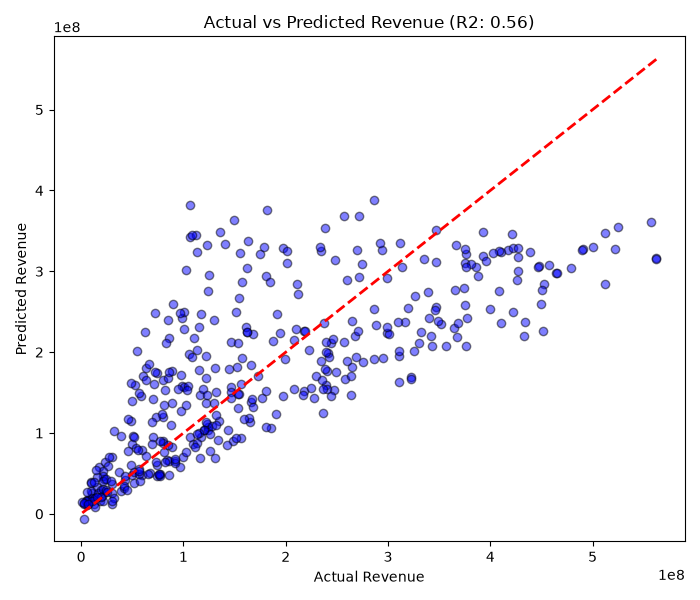
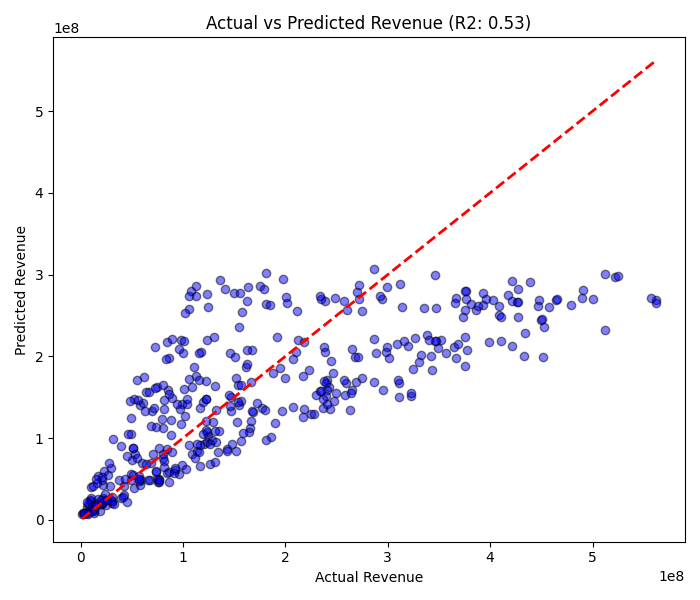
Fix data leakage and target scaling, preserving business logic

diff --git a/src/pipeline.py b/src/pipeline.py
@@ -7,50 +7,10 @@ import seaborn as sns
 from .preprocessor import load_and_clean_data
 from .features import engineer_features, get_top_genres
 from .models.predictive_model import train_and_save_model
+import numpy as np
 
 logger = logging.getLogger(__name__)
 
-def generate_eda_artifacts(df: pd.DataFrame) -> None:
-    """Generate and save EDA plots."""
-    logger.info("Generating EDA artifacts...")
-    os.makedirs("assets", exist_ok=True)
-    
-    df_exploded = df.explode('genre_list')
-    df_exploded = df_exploded[df_exploded['genre_list'].notna()]
-    genre_counts = df_exploded['genre_list'].value_counts().head(10)
-    
-    # 1. Budget vs Revenue
-    plt.figure(figsize=(10, 6))
-    sns.scatterplot(data=df, x='budget', y='revenue', hue='success', alpha=0.6)
-    plt.title('Budget vs Revenue')
-    plt.tight_layout()
-    plt.savefig('assets/budget_vs_revenue.png')
-    plt.close()
-
-    # 2. Top Genres
-    plt.figure(figsize=(12, 6))
-    sns.barplot(y=genre_counts.index, x=genre_counts.values, orient='h')
-    plt.title('Top 10 Most Common Genres')
-    plt.tight_layout()
-    plt.savefig('assets/top_genres.png')
-    plt.close()
-
-    # 3. Features vs Success
-    fig, axes = plt.subplots(1, 3, figsize=(18, 5))
-    sns.boxplot(data=df, x='success', y='popularity', ax=axes[0])
-    sns.boxplot(data=df, x='success', y='runtime', ax=axes[1])
-    sns.boxplot(data=df, x='success', y='vote_average', ax=axes[2])
-    plt.tight_layout()
-    plt.savefig('assets/features_vs_success.png')
-    plt.close()
-
-    # 4. Correlation Heatmap
-    numeric_cols = ['budget', 'revenue', 'popularity', 'runtime', 'vote_average', 'success']
-    plt.figure(figsize=(8, 6))
-    sns.heatmap(df[numeric_cols].corr(), annot=True, cmap='coolwarm', fmt=".2f")
-    plt.tight_layout()
-    plt.savefig('assets/correlation_heatmap.png')
-    plt.close()
 
 def run_pipeline() -> None:
     """Execute the full data pipeline: load, clean, split, EDA, feature engineer, and train."""
@@ -78,7 +38,8 @@ def run_pipeline() -> None:
     df_train, df_test = train_test_split(df, test_size=0.2, random_state=42)
     
     # Generate EDA only on the training set
-    generate_eda_artifacts(df_train)
+    # generate_eda_artifacts is removed since plots are dynamic in the dashboard.
+
     
     # Determine top genres ONLY from the training set
     top_genres = get_top_genres(df_train, n=top_genres_n)
@@ -103,11 +64,13 @@ def run_pipeline() -> None:
     features = ['budget', 'popularity', 'runtime', 'vote_average', 'word_of_mouth_ratio', 'hype_risk'] + [f'genre_{g}' for g in top_genres]
     
     # Target is now actual revenue (regression) rather than binary success
+    # Apply log1p transformation to avoid negative predictions and handle skewness
     X_train = df_train_engineered[features]
-    y_train = df_train_engineered['revenue']
+    y_train = np.log1p(df_train_engineered['revenue'])
     
     X_test = df_test_engineered[features]
-    y_test = df_test_engineered['revenue']
+    y_test = np.log1p(df_test_engineered['revenue'])
+
     
     # Train model safely
     train_and_save_model(

diff --git a/src/models/predictive_model.py b/src/models/predictive_model.py
@@ -54,11 +54,16 @@ def train_and_save_model(
     best_pipeline = grid_search.best_estimator_
     logger.info(f"Best parameters found: {grid_search.best_params_}")
     
-    preds = best_pipeline.predict(X_test)
+    preds_log = best_pipeline.predict(X_test)
     
-    mae = mean_absolute_error(y_test, preds)
-    rmse = np.sqrt(mean_squared_error(y_test, preds))
-    r2 = r2_score(y_test, preds)
+    # Transform predictions and actuals back to original dollar scale for interpretable metrics
+    preds = np.expm1(preds_log)
+    y_test_dollars = np.expm1(y_test)
+    
+    mae = mean_absolute_error(y_test_dollars, preds)
+    rmse = np.sqrt(mean_squared_error(y_test_dollars, preds))
+    r2 = r2_score(y_test_dollars, preds)
+
     
     logger.info(f"Model MAE: ${mae:,.2f}")
     logger.info(f"Model RMSE: ${rmse:,.2f}")
@@ -69,8 +74,8 @@ def train_and_save_model(
     
     # 1. Actual vs Predicted Scatter Plot
     plt.figure(figsize=(7, 6))
-    plt.scatter(y_test, preds, alpha=0.5, color='blue', edgecolor='k')
-    plt.plot([y_test.min(), y_test.max()], [y_test.min(), y_test.max()], 'r--', lw=2)
+    plt.scatter(y_test_dollars, preds, alpha=0.5, color='blue', edgecolor='k')
+    plt.plot([y_test_dollars.min(), y_test_dollars.max()], [y_test_dollars.min(), y_test_dollars.max()], 'r--', lw=2)
     plt.xlabel('Actual Revenue')
     plt.ylabel('Predicted Revenue')
     plt.title(f'Actual vs Predicted Revenue (R2: {r2:.2f})')
@@ -79,7 +84,7 @@ def train_and_save_model(
     plt.close()
     
     # 2. Residual Plot
-    residuals = y_test - preds
+    residuals = y_test_dollars - preds
     plt.figure(figsize=(7, 6))
     plt.scatter(preds, residuals, alpha=0.5, color='purple', edgecolor='k')
     plt.axhline(0, color='r', linestyle='--', lw=2)

diff --git a/pages/2_Predictive_Engine.py b/pages/2_Predictive_Engine.py
@@ -3,6 +3,7 @@ import pandas as pd
 import joblib
 import json
 import os
+import numpy as np
 from src.config_loader import load_config
 from src.utils import apply_global_styles
 
@@ -100,7 +101,9 @@ else:
     input_df = pd.DataFrame([input_data])[model_features]
     
     # Get the raw regression prediction (predicted revenue)
-    predicted_revenue = model.predict(input_df)[0]
+    # The model predicts log(revenue), so we use np.expm1 to convert back to dollars
+    predicted_log_revenue = model.predict(input_df)[0]
+    predicted_revenue = np.expm1(predicted_log_revenue)
     # Ensure revenue doesn't predict negative
     predicted_revenue = max(0, predicted_revenue)
     

diff --git a/src/preprocessor.py b/src/preprocessor.py
@@ -41,11 +41,9 @@ def load_and_clean_data(filepath: str, success_multiplier: float = 2.5) -> pd.Da
         raise
         
     # 4. Missing Values Handling
-    # Numeric columns -> Fill with Median
-    for col in ['budget', 'revenue', 'popularity', 'runtime', 'vote_average']:
-        if col in df.columns:
-            df[col] = df[col].fillna(df[col].median())
-            
+    # Note: Numeric columns will be imputed during the pipeline after train-test split to avoid data leakage.
+    
+
     # Text columns -> Fill with Mode or "Unknown"
     for col in ['title', 'genres']:
         if col in df.columns:
